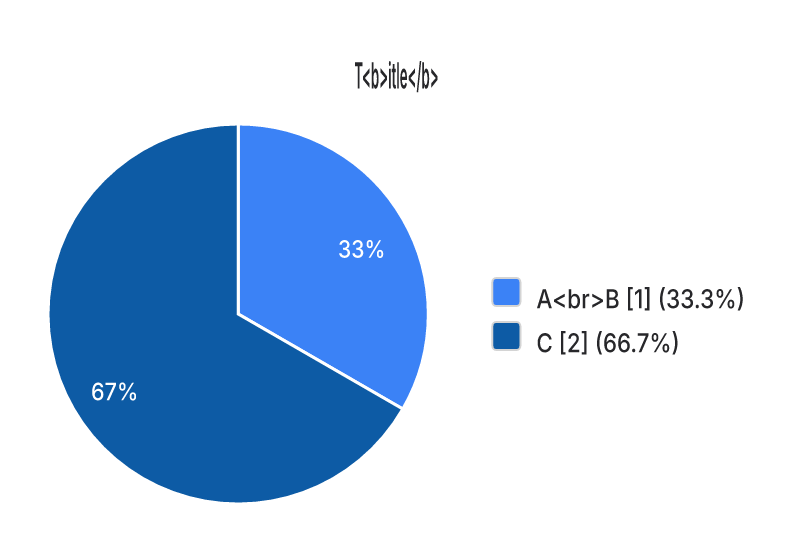
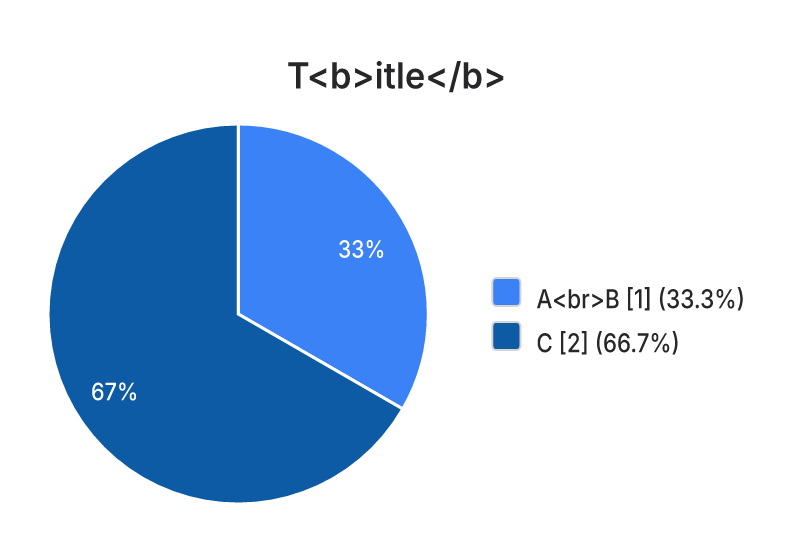
fix(pie): measure literal title and legend glyphs without formatting

Changed region(s): [[0.3632, 0.0924, 0.6356, 0.1848]]

diff --git a/src/custom-font-geometry.ts b/src/custom-font-geometry.ts
@@ -1,6 +1,6 @@
 import { decodeXML } from 'entities'
 import { graphemes } from './shared/graphemes.ts'
-import { measureFormattedTextWidth, measureMonospaceTextWidth } from './text-metrics.ts'
+import { measureFormattedTextWidth, measureMonospaceTextWidth, measureTextWidth } from './text-metrics.ts'
 
 function presentationAttribute(attrs: string, name: string): string | undefined {
   return attrs.match(new RegExp(`\\b${name}\\s*=\\s*(["'])(.*?)\\1`, 'i'))?.[2]
@@ -180,7 +180,7 @@ function collectRuns(
   return { runs, blocked }
 }
 
-function measuredAdvance(runs: readonly MeasuredRun[]): number | null {
+function measuredAdvance(runs: readonly MeasuredRun[], literalText = false): number | null {
   const painted = runs.filter(run => run.text.length > 0)
   if (painted.length === 0 || painted.every(run => run.text.trim().length === 0)) return null
   let width = 0
@@ -192,7 +192,10 @@ function measuredAdvance(runs: readonly MeasuredRun[]): number | null {
     if (previousClusters > 0 && clusters > 0) width += previousSpacing
     width += run.metrics.mono
       ? measureMonospaceTextWidth(run.text, run.metrics.size, run.metrics.letterSpacing)
-      : measureFormattedTextWidth(run.text, run.metrics.size, run.metrics.weight, run.metrics.letterSpacing)
+      : literalText
+        ? measureTextWidth(run.text, run.metrics.size, run.metrics.weight) +
+          Math.max(0, clusters - 1) * run.metrics.letterSpacing
+        : measureFormattedTextWidth(run.text, run.metrics.size, run.metrics.weight, run.metrics.letterSpacing)
     previousClusters = clusters
     previousSpacing = run.metrics.letterSpacing
   }
@@ -216,8 +219,9 @@ export function fitUncalibratedSvgText(svg: string, _fontStack: string): string 
   const edits: SourceEdit[] = []
   const base: InheritedTextMetrics = { size: 0, weight: 400, letterSpacing: 0, mono: false }
 
-  const visitTextTree = (element: XmlElement, inherited: InheritedTextMetrics, insideText: boolean) => {
+  const visitTextTree = (element: XmlElement, inherited: InheritedTextMetrics, insideText: boolean, inheritedLiteral = false) => {
     const metrics = resolveMetrics(inherited, element)
+    const literalText = inheritedLiteral || hasAttribute(element.attrs, 'data-literal-text')
     const isTextRoot = element.name === 'text' && !insideText
     const isOwner = isTextRoot || (insideText && startsPositionedAdvance(element))
     const emitterOwned = isOwner && hasAttribute(element.attrs, 'textLength')
@@ -227,7 +231,7 @@ export function fitUncalibratedSvgText(svg: string, _fontStack: string): string 
     // one continuous parent-owned advance.
     if (isOwner && !(isTextRoot && hasPositionedDescendant(element))) {
       const collected = collectRuns(element, inherited)
-      const width = collected.blocked ? null : measuredAdvance(collected.runs)
+      const width = collected.blocked ? null : measuredAdvance(collected.runs, literalText)
       if (width !== null) {
         edits.push({
           offset: element.openEnd - 1,
@@ -236,7 +240,7 @@ export function fitUncalibratedSvgText(svg: string, _fontStack: string): string 
       }
     }
     const nextInside = insideText || isTextRoot
-    for (const child of childElements(element)) visitTextTree(child, metrics, nextInside)
+    for (const child of childElements(element)) visitTextTree(child, metrics, nextInside, literalText)
   }
   for (const root of roots) visitTextTree(root, base, false)
 

diff --git a/src/pie/renderer.ts b/src/pie/renderer.ts
@@ -52,6 +52,10 @@ const PIE = {
   dimOpacity: 0.4,
 } as const
 
+// The deterministic SVG font pass must not re-interpret an already-literal
+// Pie text node as formatting. Plain entity display needs no extra marker.
+const needsLiteralFontMetrics = (text: string): boolean => /[<>*~]/.test(text)
+
 /**
  * Render a positioned pie chart as an SVG string.
  */
@@ -288,7 +292,7 @@ export function lowerPieScene(
         item.textX,
         item.textY,
         visual.legendTextSize ?? style.nodeLabelFontSize,
-        `class="pie-legend-text" text-anchor="start" dominant-baseline="middle" font-size="${visual.legendTextSize ?? style.nodeLabelFontSize}" font-weight="${legWeight}"${letterAttr(style.nodeLetterSpacing)}`,
+        `class="pie-legend-text" text-anchor="start" dominant-baseline="middle" font-size="${visual.legendTextSize ?? style.nodeLabelFontSize}" font-weight="${legWeight}"${letterAttr(style.nodeLetterSpacing)}${item.literalText === true && needsLiteralFontMetrics(text) ? ' data-literal-text="true"' : ''}`,
         0.35,
         item.literalText === true,
       ),
@@ -315,7 +319,7 @@ export function lowerPieScene(
         chart.title.x,
         chart.title.y,
         visual.titleTextSize ?? style.groupHeaderFontSize,
-        `class="pie-title" text-anchor="middle" dominant-baseline="middle" font-size="${visual.titleTextSize ?? style.groupHeaderFontSize}" font-weight="${style.groupHeaderFontWeight}"${letterAttr(style.groupLetterSpacing)}`,
+        `class="pie-title" text-anchor="middle" dominant-baseline="middle" font-size="${visual.titleTextSize ?? style.groupHeaderFontSize}" font-weight="${style.groupHeaderFontWeight}"${letterAttr(style.groupLetterSpacing)}${chart.title.literalText === true && needsLiteralFontMetrics(title) ? ' data-literal-text="true"' : ''}`,
         0.35,
         chart.title.literalText === true,
       ),

diff --git a/src/__tests__/custom-font-geometry.test.ts b/src/__tests__/custom-font-geometry.test.ts
@@ -3,7 +3,7 @@ import { renderMermaidSVG } from '../index.ts'
 import { renderMermaidPNG } from '../agent/png.ts'
 import { fitUncalibratedSvgText } from '../custom-font-geometry.ts'
 import { HOSTED_FONT_RESOURCES } from '../font-manifest.ts'
-import { measureFormattedTextWidth, measureMonospaceTextWidth } from '../text-metrics.ts'
+import { measureFormattedTextWidth, measureMonospaceTextWidth, measureTextWidth } from '../text-metrics.ts'
 import { decodePng, inkColumns } from './helpers/png-pixels.ts'
 
 const BUNDLED_FONT_FAMILIES = [...new Set(HOSTED_FONT_RESOURCES.map(resource => resource.family))]
@@ -54,6 +54,18 @@ describe('deterministic custom-font geometry', () => {
     ) * 1000) / 1000
     expect(fitted).toContain(`<text font-size="13" font-weight="500" textLength="${expected}"`)
     expect(fitted).toContain('plain <tspan font-weight="bold">bold</tspan> tail')
+    expect(fitUncalibratedSvgText(fitted, 'Acme Wide')).toBe(fitted)
+  })
+
+  test('literal Pie text fits the authored glyphs instead of reparsing markup-like characters', () => {
+    const literal = 'T<b>itle</b>'
+    const fitted = fitUncalibratedSvgText(
+      `<svg><text font-size="18" font-weight="600" data-literal-text="true">T&lt;b&gt;itle&lt;/b&gt;</text></svg>`,
+      'Acme Wide',
+    )
+    const width = Math.round(measureTextWidth(literal, 18, 600) * 1000) / 1000
+    expect(fitted).toContain(`textLength="${width}"`)
+    expect(width).toBeGreaterThan(measureFormattedTextWidth(literal, 18, 600))
     expect(fitUncalibratedSvgText(fitted, 'Acme Wide')).toBe(fitted)
   })
 

diff --git a/src/__tests__/pie-entity-display-fidelity.test.ts b/src/__tests__/pie-entity-display-fidelity.test.ts
@@ -7,6 +7,7 @@ import { renderMermaidASCII, renderMermaidSVG } from '../index.ts'
 import { renderMermaidSVGAsync } from '../browser-lazy.ts'
 import { renderMermaidASCIIWithMeta } from '../ascii/meta.ts'
 import { parsePieChart } from '../pie/parser.ts'
+import { measureTextWidth } from '../text-metrics.ts'
 
 const cases = [
   { sourceLabel: 'A&#35;B', display: 'A&#B', xml: 'A&amp;#B' },
@@ -104,6 +105,18 @@ test('pinned Mermaid Pie DB retains authored markup-like title and section strin
   expect(JSON.parse(new TextDecoder().decode(probe.stdout))).toEqual(
     pairs.map(([label, title]) => ({ title, sections: [[label, 1]] })),
   )
+})
+
+test('literal Pie title and legend reserve uncompressed painted advance', () => {
+  const source = 'pie showData\n  title T<b>itle</b>\n  "A<br>B" : 1\n'
+  const svg = renderMermaidSVG(source)
+  const title = svg.match(/<text\b([^>]*class="pie-title"[^>]*)>T&lt;b&gt;itle&lt;\/b&gt;<\/text>/)?.[1]
+  const legend = svg.match(/<text\b([^>]*class="pie-legend-text"[^>]*)>A&lt;br&gt;B \[1\] \(100\.0%\)<\/text>/)?.[1]
+  expect(title).toContain('data-literal-text="true"')
+  expect(legend).toContain('data-literal-text="true"')
+  const advance = (attrs: string | undefined) => Number(attrs?.match(/textLength="([0-9.]+)"/)?.[1])
+  expect(advance(title)).toBeCloseTo(measureTextWidth('T<b>itle</b>', 18, 600), 3)
+  expect(advance(legend)).toBeCloseTo(measureTextWidth('A<br>B [1] (100.0%)', 13, 500), 3)
 })
 
 test('Pie title entities follow pinned Mermaid visible text while source and agent title stay authored', async () => {

diff --git a/src/pie/layout.ts b/src/pie/layout.ts
@@ -211,13 +211,16 @@ export function layoutPieChart(
   const titleHeight = renderedTitle ? titleFontSize + PIE.titleGap : 0
   const titleWidth = renderedTitle
     ? Math.max(...renderedTitle.split('\n').map(line =>
-      measureSafeStyledTextWidth(line, titleFontSize, style.groupHeaderFontWeight, style.groupLetterSpacing)))
+      chart.displayTitle === undefined
+        ? measureSafeStyledTextWidth(line, titleFontSize, style.groupHeaderFontWeight, style.groupLetterSpacing)
+        : measureSystemFontSafeTextWidth(line, titleFontSize, style.groupHeaderFontWeight) +
+          Math.max(0, graphemes(line).length - 1) * style.groupLetterSpacing))
     : 0
   const staticHighlight = visual.highlightSlice === 'hover' ? undefined : visual.highlightSlice
 
-  // Legend metrics — one row per entry; `<br/>` labels span multiple lines
-  // (value/percent suffix rides on the last line), measured per line so a
-  // multiline row can neither overprint its neighbor nor inflate the column.
+  // Legend metrics — one row per entry. Only actual newline characters span
+  // multiple lines; authored `<br/>` is literal Pie text. The value/percent
+  // suffix rides on the last line, and each line is measured independently.
   const rows: LegendRowMetrics[] = chart.entries.map(e => {
     const fraction = total > 0 ? e.value / total : 0
     const valuePart = chart.showData ? ` [${formatPieValue(e.value)}]` : ''

diff --git a/src/__tests__/fidelity-receipts.test.ts b/src/__tests__/fidelity-receipts.test.ts
@@ -288,6 +288,7 @@ describe('issue #248 construct fidelity receipts', () => {
       'flowchart.classes.edge-paint-implication',
       'flowchart.links.boundary-whitespace-mutation-closure',
       'journey.scores.fractional-parser-render-seam',
+      'pie.syntax.authored-formatting-literal',
       'pie.syntax.duplicate-label-first-wins',
       'pie.syntax.entity-spelling-distinct',
       'pie.syntax.escaped-terminal-control-sanitized',
@@ -309,10 +310,10 @@ describe('issue #248 construct fidelity receipts', () => {
     expect(receipt).toEqual(readJson<FidelityReceiptResult>(RECEIPT))
     expect(projectFidelityCapabilityReport(receipt)).toEqual(readJson(CAPABILITY_REPORT))
     expect(receipt.summary).toEqual({
-      caseCount: 29,
-      passedCaseCount: 29,
+      caseCount: 30,
+      passedCaseCount: 30,
       failedCaseCount: 0,
-      observedSurfaceCount: 109,
+      observedSurfaceCount: 113,
       blockedSurfaceCount: 0,
       notApplicableSurfaceCount: 7,
     })
